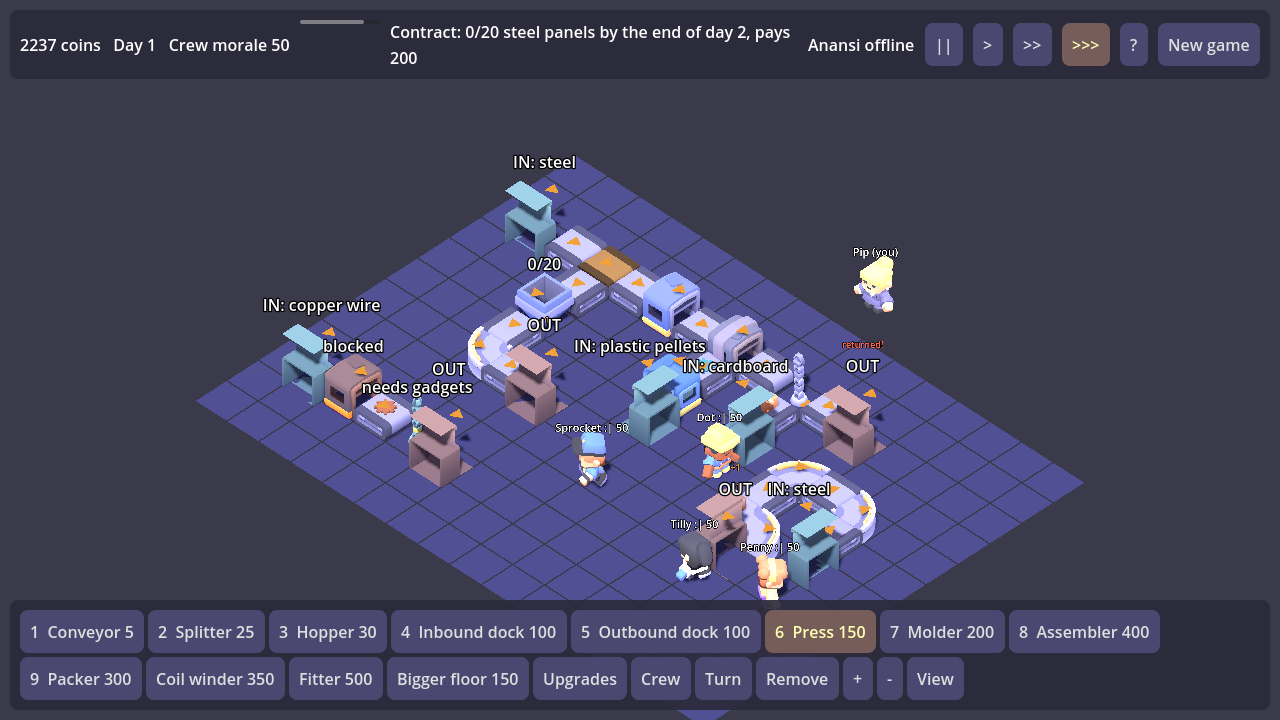
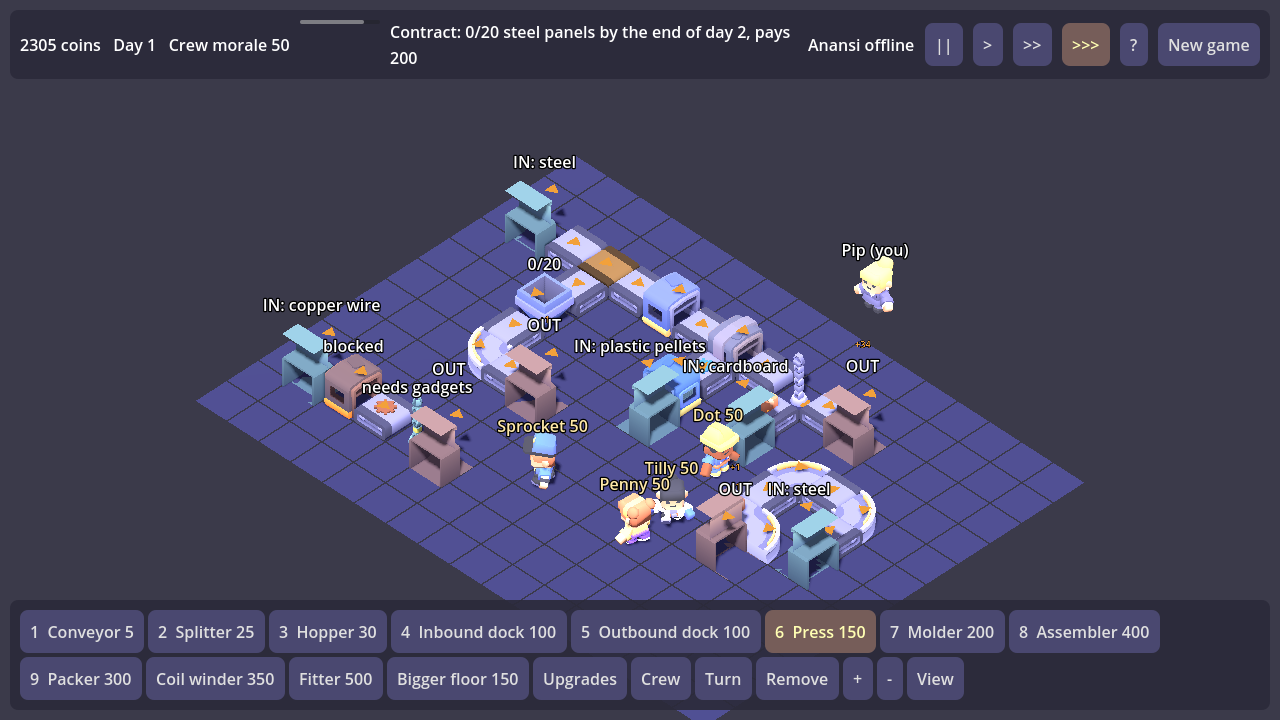
Hoppertunity: the crew's name tags join the 2D overlay, coloured by mood

Changed region(s): [[0.375, 0.55, 0.625, 0.8556], [0.6562, 0.3361, 0.7188, 0.3667], [0.6562, 0.4583, 0.6875, 0.4889]]

diff --git a/examples/hoppertunity/README.md b/examples/hoppertunity/README.md
@@ -147,7 +147,7 @@ flat colour: the failure that hit the browser build twice while the desktop buil
 - A few hundred `Label3D` nodes make the browser build draw no 3D at all (672 labelled buildings: blank; the same
   672 without labels: fine; the desktop build never minded). So building tags are painted on one 2D overlay, and
   conveyors and arrows are drawn in four batches. With that, 672 hoppers (`?stress&fill=hopper`) also hold 55 frames a
-  second. The crew's name tags and the "+8" sale pop-ups are still `Label3D`, a handful at a time.
+  second. Only the "+8" sale pop-ups are still `Label3D`, a handful at a time.
 - Conversations arrive whole (`chat`), because the game needs the action and a streamed reply carries none; the
   day-end remark is the streamed one. In the desktop build against the real model its two sentences arrived 1.2 s
   apart (8.0 s and 9.2 s), and in the browser build in Chrome also 1.2 s apart (4.2 s and 5.4 s; `?remark` in the
